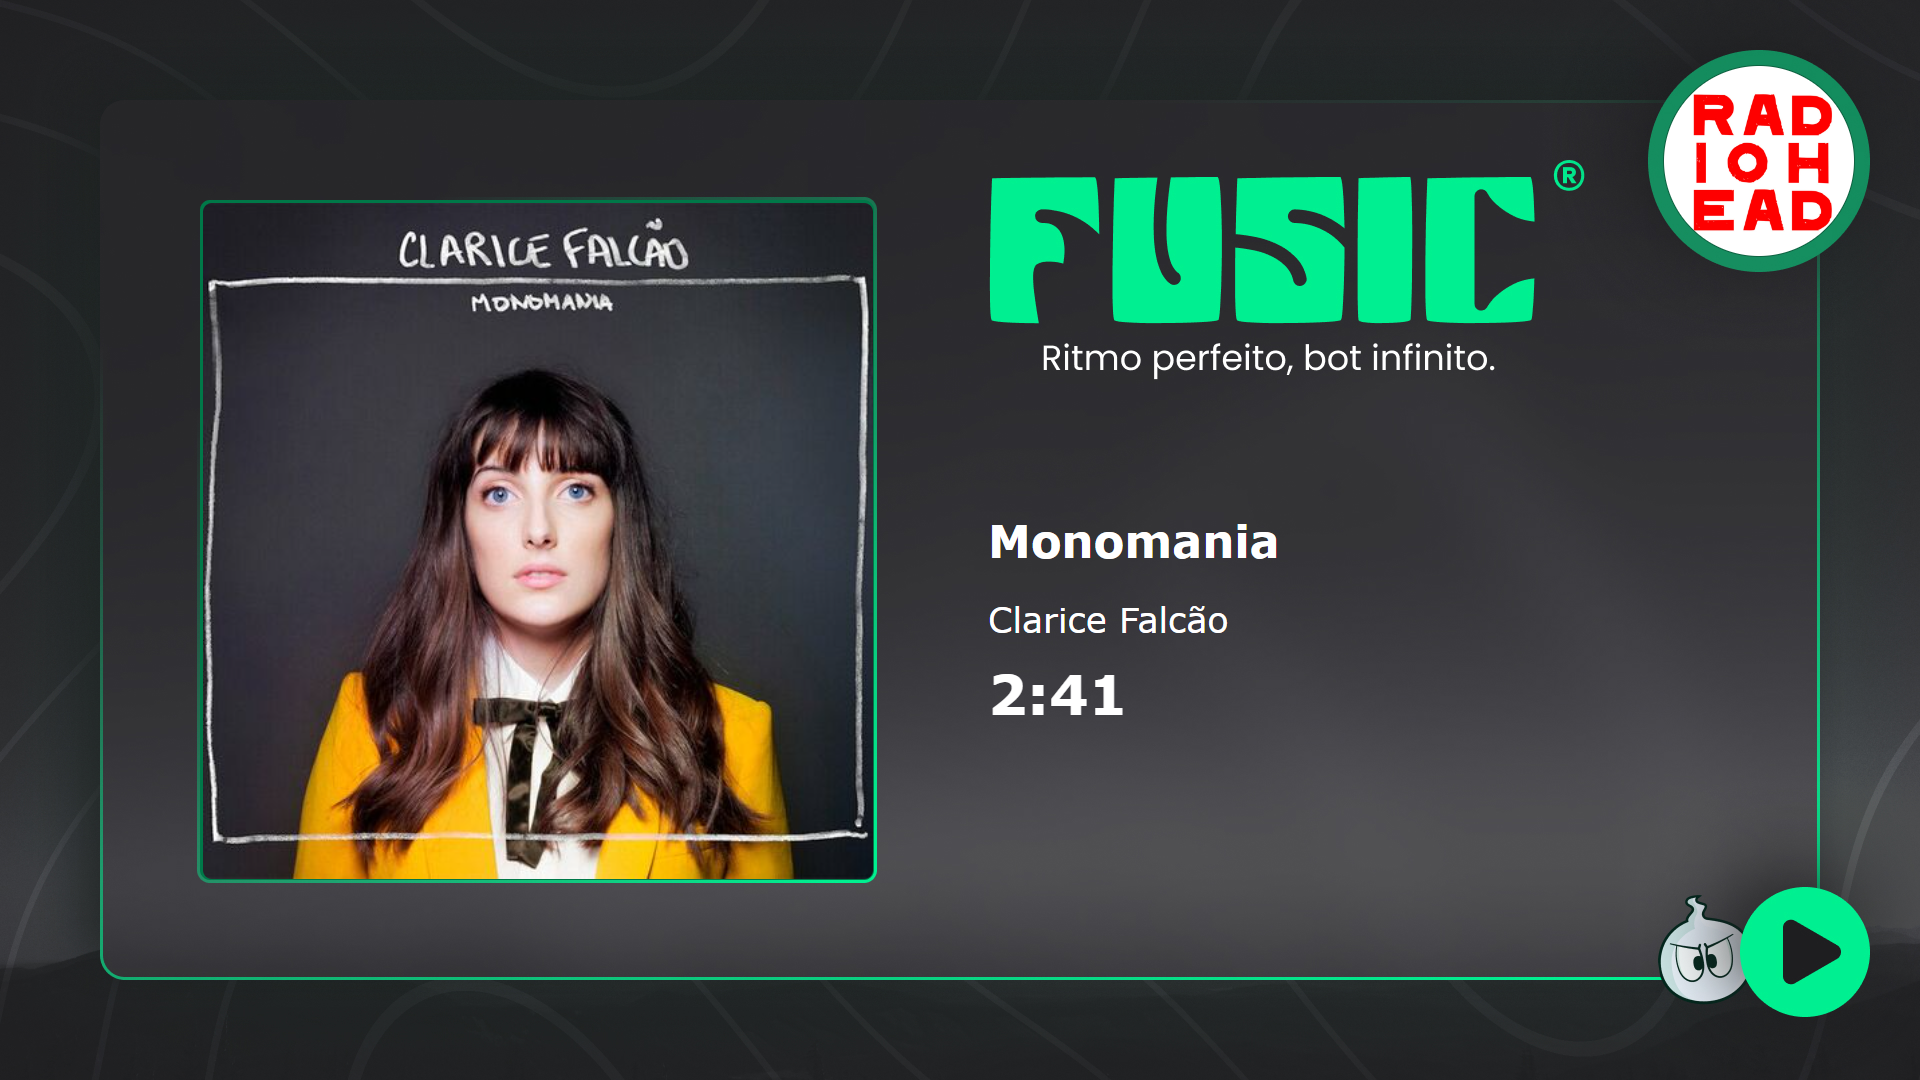
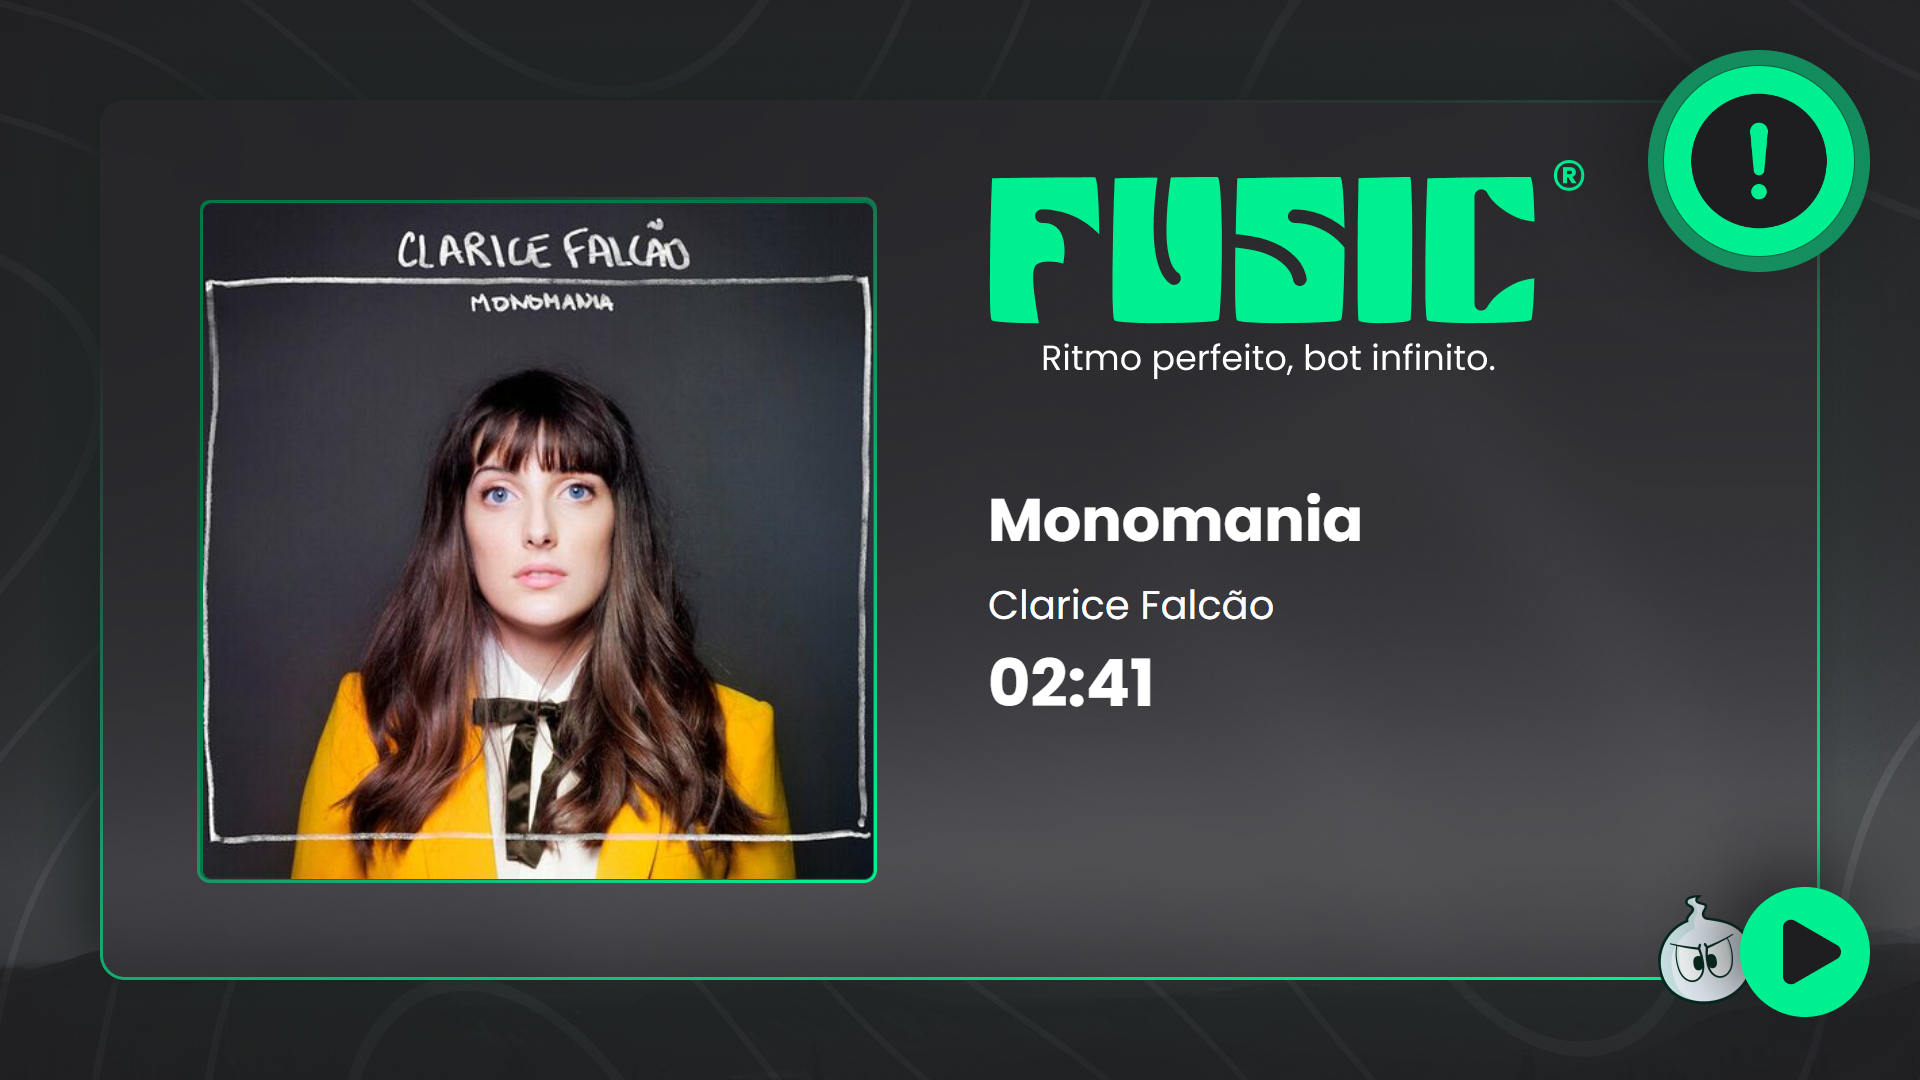
Fix

diff --git a/src/controllers/image.controller.js b/src/controllers/image.controller.js
@@ -11,6 +11,9 @@ exports.gerarImagem = async (req, res) => {
     discordUserAvatar,
   } = req.body;
 
+  musicName = musicName.replace(/\([^()]*\)/g, "");
+  musicName = musicName.replace(/- /g, "");
+  musicName = musicName.trim();
   // fetch deezer api
   let musicInfo = await axios.get(
     `https://api.deezer.com/search/track?q=${musicName}`
@@ -19,55 +22,102 @@ exports.gerarImagem = async (req, res) => {
   //   musicInfo = await musicInfo.json();
   musicInfo = musicInfo?.data;
 
+  // regex to remove parenteses and content inside
+
   musicName = musicInfo?.data[0]?.title || musicName;
   musicAuthor = musicInfo?.data[0]?.artist?.name || musicAuthor;
   musicDuration = musicInfo?.data[0]?.duration || musicDuration;
   musicPlayerURL = musicInfo?.data[0]?.album?.cover_big || musicPlayerURL;
   discordUserAvatar =
     discordUserAvatar ||
-    "https://i.scdn.co/image/ab6761610000e5eba03696716c9ee605006047fd";
+    "https://cdn.discordapp.com/attachments/1070772604450906173/1141526309370085376/Aviso.jpg";
 
   if (!musicDuration.toString().includes(":")) {
     let minutes = Math.floor(musicDuration / 60);
     let seconds = musicDuration - minutes * 60;
+    // formart time 00:00
     musicDuration = `${minutes}:${seconds}`;
+    // add 0 if seconds < 10 ex: 00:09
+    if (seconds < 10) {
+      musicDuration = `${minutes}:0${seconds}`;
+    }
+    if (minutes < 10) {
+      musicDuration = `0${minutes}:${seconds}`;
+    }
   }
 
   const imgHTML = `
-        <html><head><style>body {width: 1920px;height: 1080px; margin: 0px;}</style></head><body><image style="position: absolute"  src="https://cdn.discordapp.com/attachments/1131702965586116719/1141520923703390288/Player_modelo.png"  width="1920"  height="1080"/>
-        <image
-        style="position: absolute; top: 203px; left: 203px; border-radius: 9px"
-        src="${musicPlayerURL}"
-        width="670"
-        height="676"
-        />
-        <image
-        style="position: absolute; left: 1664px; top: 66px; border-radius: 9999px"
-        src="${discordUserAvatar}"
-        width="190"
-        height="190"
-        />
-        <div
-        style="
+<html>
+  <head>
+    <style>
+      body {
+        width: 1920px;
+        height: 1080px;
+        margin: 0px;
+      }
+    </style>
+    <link rel="preconnect" href="https://fonts.googleapis.com" />
+    <link rel="preconnect" href="https://fonts.gstatic.com" />
+    <link
+      href="https://fonts.googleapis.com/css2?family=Poppins:wght@400;700&display=swap"
+      rel="stylesheet"
+    />
+  </head>
+  <body>
+    <image
+      style="position: absolute"
+      src="https://cdn.discordapp.com/attachments/1131702965586116719/1141520923703390288/Player_modelo.png"
+      width="1920"
+      height="1080"
+    />
+    <div
+      style="
+        position: absolute;
+        top: 203px;
+        left: 203px;
+        border-radius: 9px;
+        width: 670px;
+        height: 676px;
+        background-image: url(${musicPlayerURL});
+        background-position: center;
+        background-size: cover;
+      "
+    ></div>
+    <image
+      style="position: absolute; left: 1664px; top: 66px; border-radius: 9999px"
+      src="${discordUserAvatar}"
+      width="190"
+      height="190"
+    />
+    <div
+      style="
         left: 988px;
-        top: 483px;
+        top: 435px;
         position: absolute;
         display: flex;
         flex-direction: column;
         color: white;
-        font-family: Verdana, Geneva, Tahoma, sans-serif;
-        "
-        >
-        <h1 style="font-size: 45px; margin-bottom: 2px">
+        font-family: Poppins, sans-serif;
+      "
+    >
+      <h1 style="font-size: 60px; margin-bottom: 0px; max-width: 800px">
         ${musicName}
-        </h1>
-        <h2 style="font-size: 35px; font-weight: 300; margin-bottom: 0px">
+      </h1>
+      <h2
+        style="
+          font-size: 40px;
+          font-weight: 100;
+          margin-top: 10px;
+          margin-bottom: 0px;
+          max-width: 800px;
+        "
+      >
         ${musicAuthor}
-        </h2>
-        <h3 style="font-size: 55px; font-weight: 600; margin-top: 20px">${musicDuration}</h3>
-        </div>
-        </body>
-        </html>
+      </h2>
+      <h3 style="font-size: 65px; font-weight: 600; margin-top: 0px">${musicDuration}</h3>
+    </div>
+  </body>
+</html>
 
     `;
 
